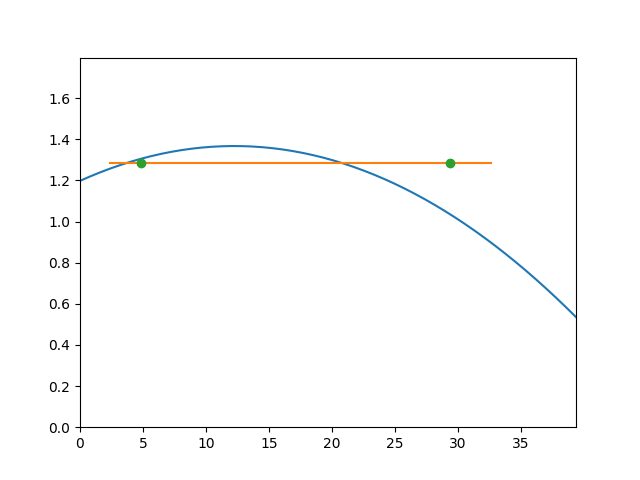
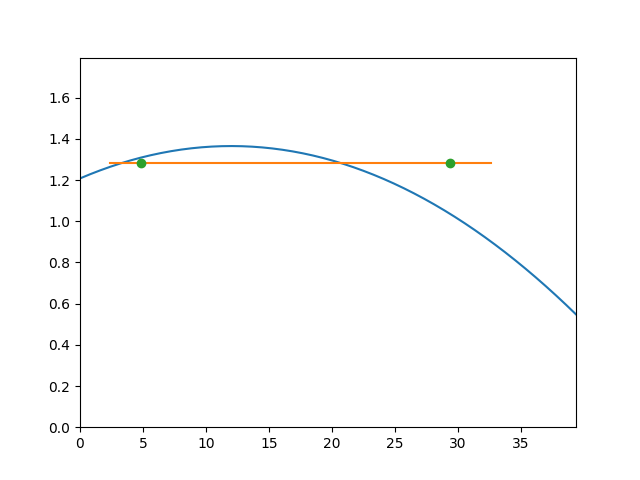
Fix bad data entry

diff --git a/derailleurs/Campagnolo Ekar/default.htm b/derailleurs/Campagnolo Ekar/default.htm
@@ -25,15 +25,15 @@ Campagnolo Ekar 13-Speed
   </tr>
   <tr>
     <th>Curve Coefficients</th>
-    <td>10.47, 1.198, 0.01383, -0.000376</td>
+    <td>10.46, 1.208, 0.01310, -0.000364</td>
   </tr>
   <tr>
     <th>Physical Low Limit</th>
-    <td>10.47</td>
+    <td>10.46</td>
   </tr>
   <tr>
     <th>Physical High Limit</th>
-    <td>56.09</td>
+    <td>56.14</td>
   </tr>
   <tr>
     <th>Pull Ratio Averaged Across Pulling Runs</th>
@@ -41,15 +41,15 @@ Campagnolo Ekar 13-Speed
   </tr>
   <tr>
     <th>Pull Ratio Averaged Across Relaxing Runs</th>
-    <td>1.289 +/- 0.022</td>
+    <td>1.286 +/- 0.014</td>
   </tr>
   <tr>
     <th>Pull Ratio Averaged Across All Runs</th>
-    <td>1.284 +/- 0.020</td>
+    <td>1.282 +/- 0.015</td>
   </tr>
   <tr>
     <th>Pull Ratio 95% Confidence Interval</th>
-    <td>1.263 to 1.304</td>
+    <td>1.268 to 1.297</td>
   </tr>
   
   
